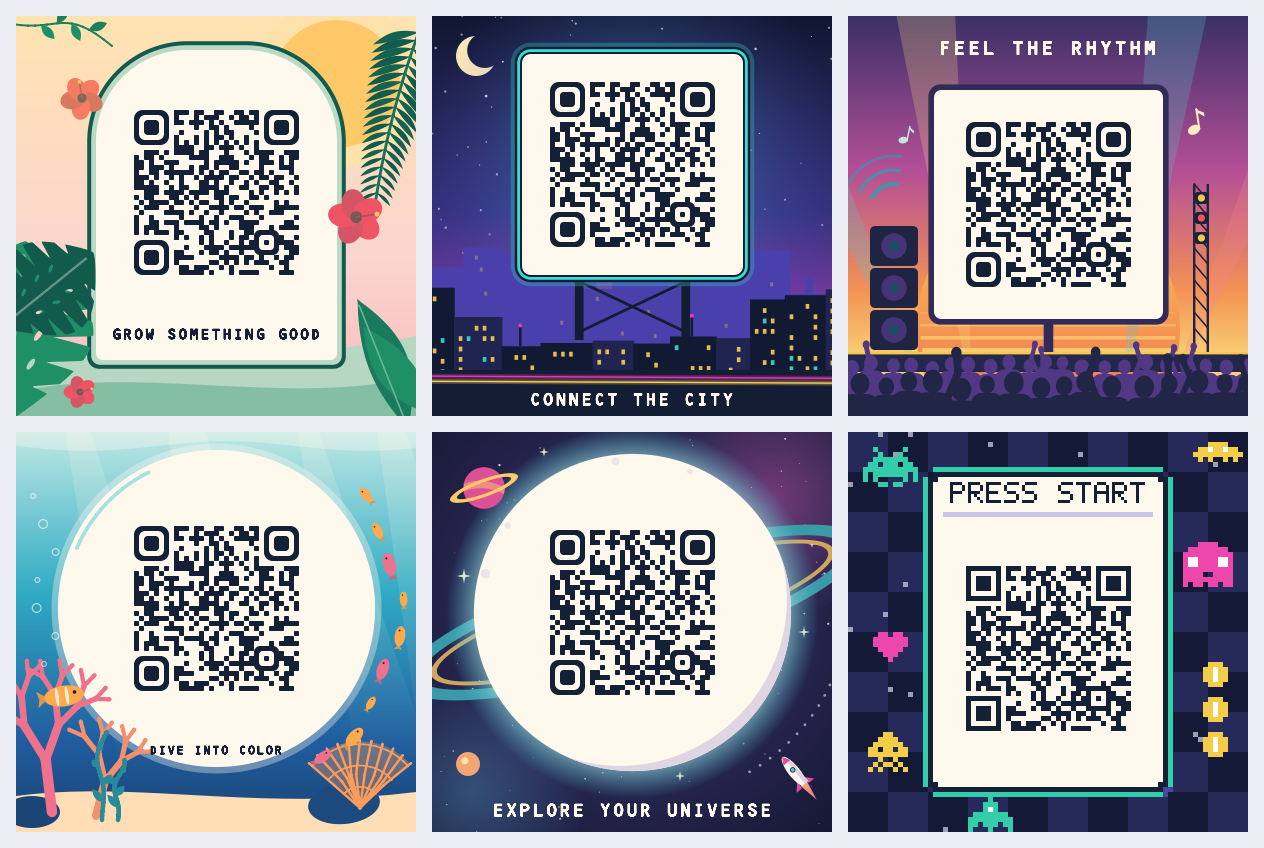
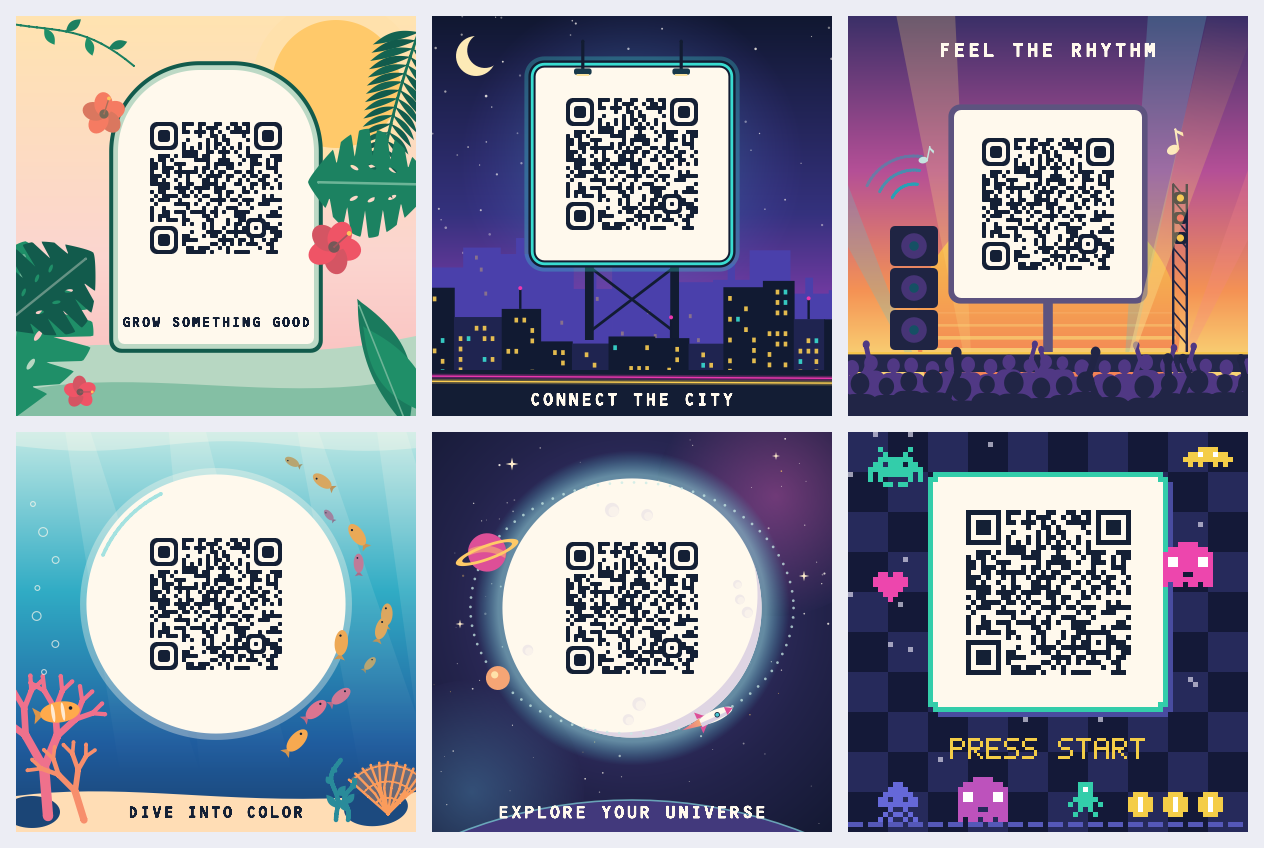
docs(art): 📝 document the light field and scene size minimum
I updated the README for the tinted light field, DarkModuleArt and FadeModules
and the three-pixel scene minimum, and regenerated the gallery images.

diff --git a/README.md b/README.md
@@ -382,7 +382,7 @@ SVG exports are self-contained **hybrid images**: framing is vector geometry and
 
 The browser art studio starts with six colorful presets. Edit the seed, density, rotation, four palette colors and paper color, then compare alternatives. Treatment, finder frames, color strength, module scale, detail protection and export resolution are adjustable. Switch to an uploaded image for focal-region and mask controls, or add an illustrated frame for PNG and hybrid SVG exports. Each result retains its original payload for later delivery checks.
 
-`QrArtPatternPresets` supplies editable palette and composition settings for each family. The presets keep three or four related hues, carry the art through the finder, timing and format zones as deep and pale tints (`QrImageArtOptions.FunctionalTint`), wash the surrounding canvas (`QrImageCanvasOptions.ArtOpacity`) and round the quiet zone (`CornerRadiusModules`). The quiet zone itself always stays a solid light colour. `QrArt.RenderPatternPng` renders the source artwork alone, so a preview and mask/layout search can use exactly the same pixels:
+`QrArtPatternPresets` supplies editable palette and composition settings for each family. The presets keep three or four related hues and use one tinted colour model (`QrImageArtOptions.FunctionalTint`): the art's crisp regions continue through the quiet zone and light modules, with darker areas lifted into a light field that follows the code and fades softly into the washed canvas (`QrImageCanvasOptions.ArtOpacity`, `FadeModules`). Every dark module, finder, timing, format and version modules included, is a deep tone of the art drawn with the body silhouette; `DarkModuleArt` = 0 uses the functional foreground instead. Each family places the code differently in its art. `QrArt.RenderPatternPng` renders the source artwork alone, so a preview and mask/layout search can use exactly the same pixels:
 
 ```csharp
 var pattern = QrArtPatternPresets.CreatePatternOptions(QrArtPattern.Marble, seed: 2026);
@@ -430,7 +430,7 @@ The [procedural-art example](https://github.com/EvotecIT/CodeGlyphX/blob/master/
 
 ![Six illustrated QR scenes: tropical garden, electric city, music festival, ocean reef, cosmic orbit and retro arcade](https://raw.githubusercontent.com/EvotecIT/CodeGlyphX/892b6fb815bfcb1b794789aa9d74ca1b3b67bb22/Assets/Examples/qr-scene-gallery.png)
 
-`QrArt.ComposeScene` draws complete posters from seeded geometry. Each scene has five editable layers: backdrop, illustrations, QR, caption and an optional logo. Move, scale, rotate or hide decorative layers; QR rotation uses quarter turns. The QR renders above the artwork with protected functional patterns and a complete four-module quiet zone. Each scene holds the code in a light backdrop that is part of the illustration (an arch, a billboard, a stage screen, a bubble, a moon or an arcade panel) and follows the QR placement. Placement that clips the QR is rejected.
+`QrArt.ComposeScene` draws complete posters from seeded geometry. Each scene has five editable layers: backdrop, illustrations, QR, caption and an optional logo. Move, scale, rotate or hide decorative layers; QR rotation uses quarter turns. The QR renders above the artwork with protected functional patterns and a complete four-module quiet zone. Each scene holds the code in a light backdrop that is part of the illustration (an arch, a billboard, a stage screen, a bubble, a moon or an arcade panel) and follows the QR placement. Placement that clips the QR, or leaves fewer than three pixels per module, is rejected: at the preset scale of 0.5 a short URL needs about 300 pixels and a 130-character URL about 420.
 
 ```csharp
 using CodeGlyphX;
